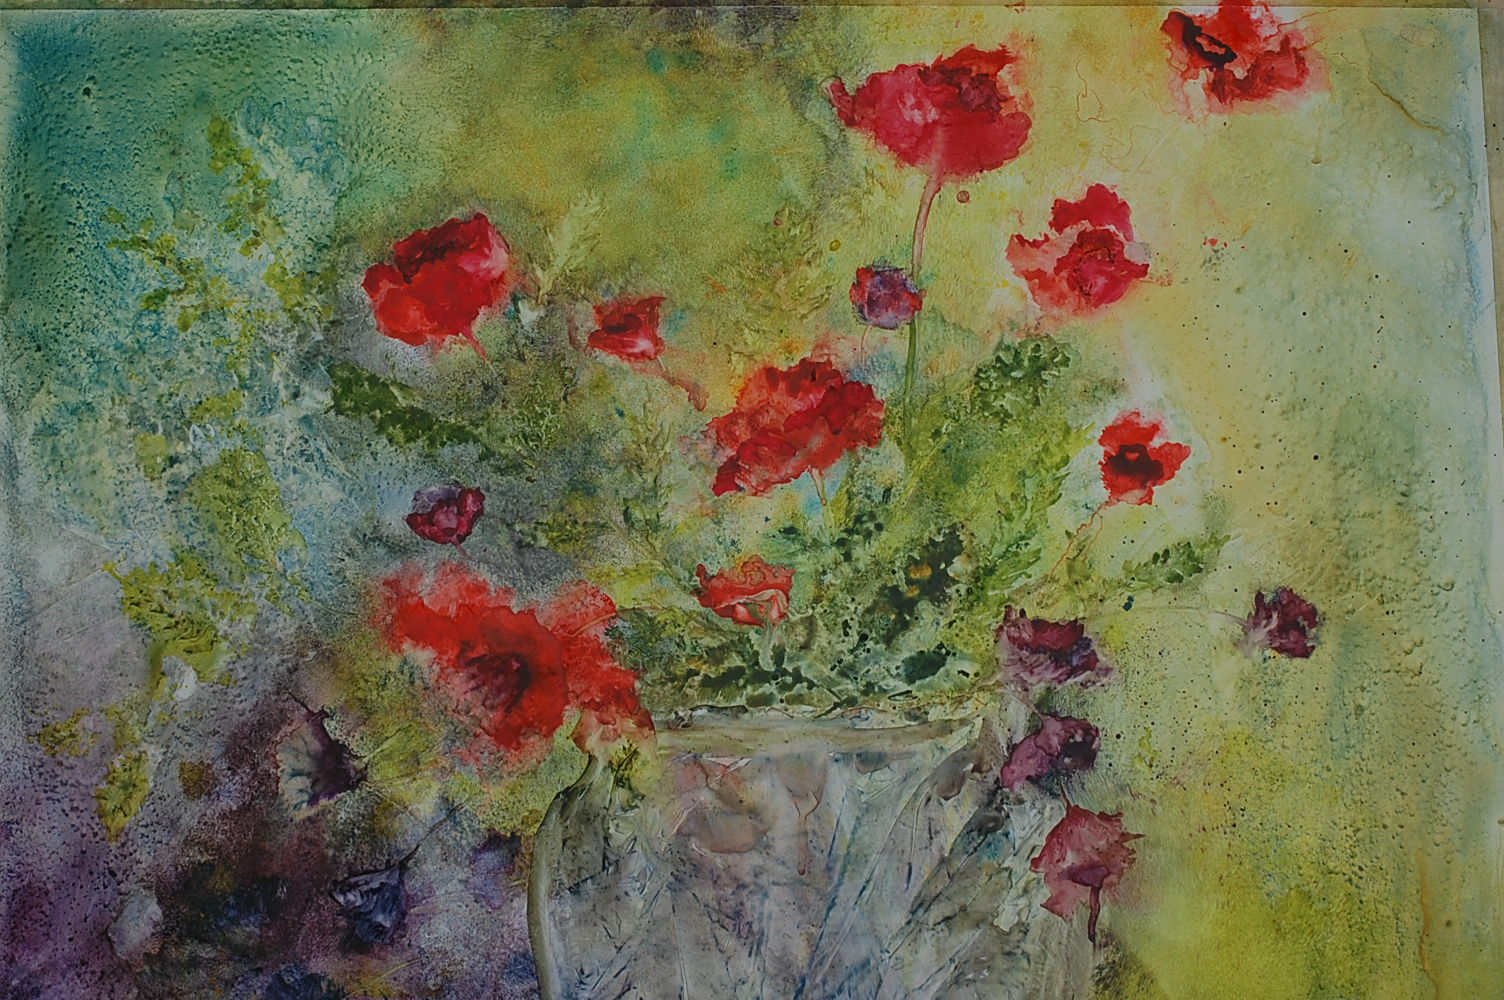
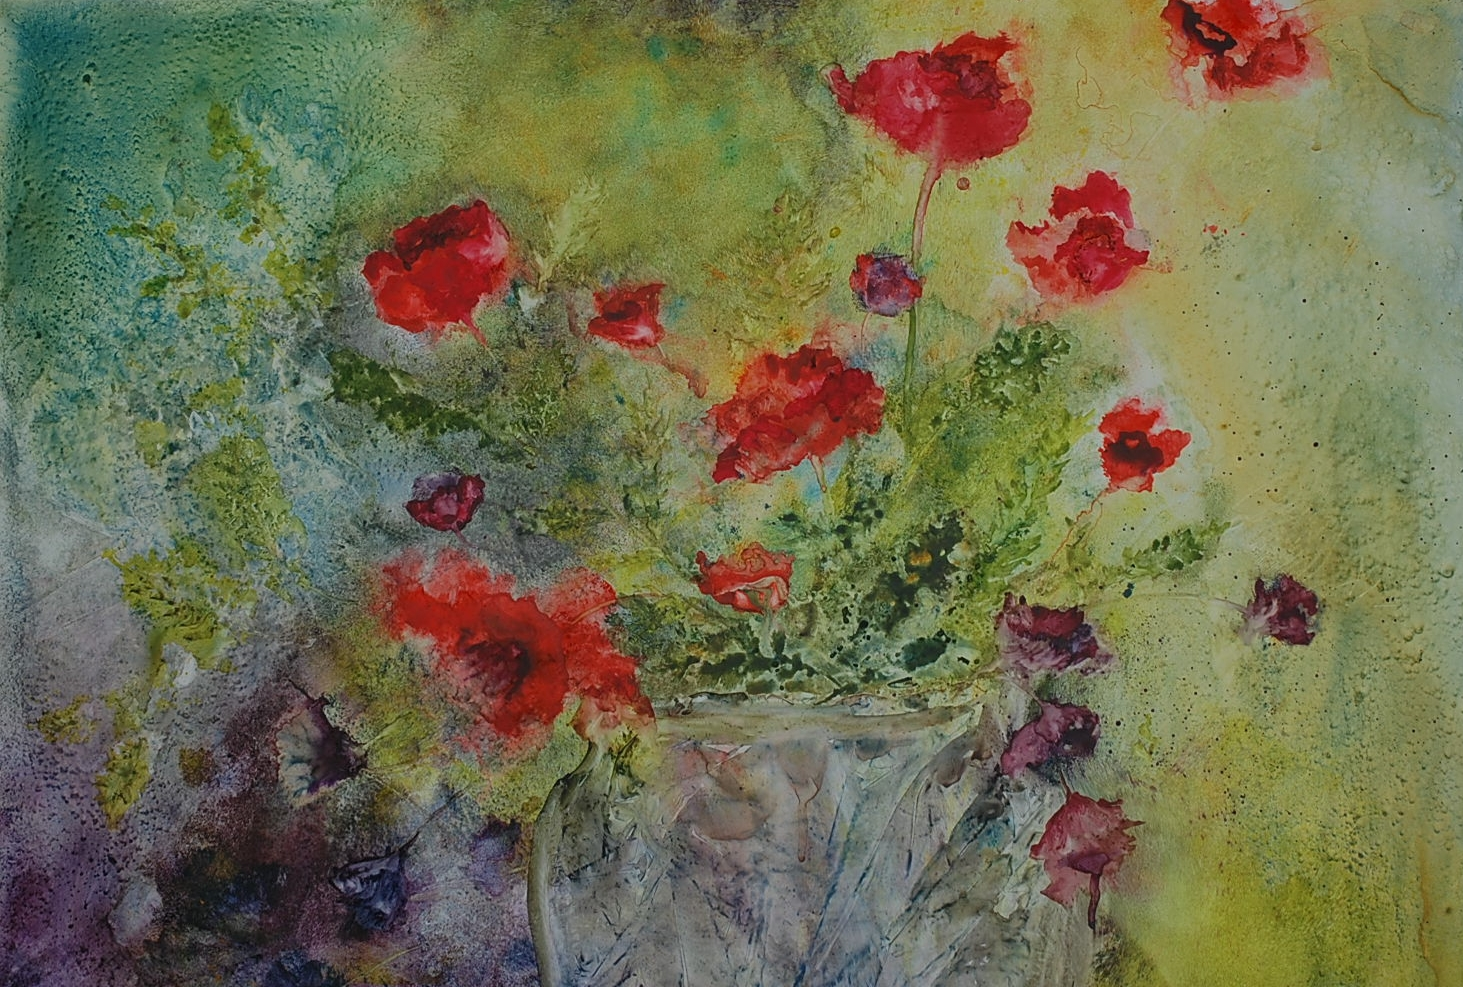
commit 6 051417

diff --git a/css/full.css b/css/full.css
@@ -11,7 +11,7 @@ body {
 /* Header Image Background - Change the URL below to your image path (example: ../images/background.jpg) */
 
 .full {
-    background: url('https://github.com/meadem/meadem.github.io/blob/master/img/yuporf.JPG?raw=true') no-repeat center center fixed;
+    background: url('https://github.com/meadem/meadem.github.io/blob/master/img/FullSizeRender.jpg?raw=true') no-repeat center center fixed;
     -webkit-background-size: cover;
     -moz-background-size: cover;
     background-size: cover;
